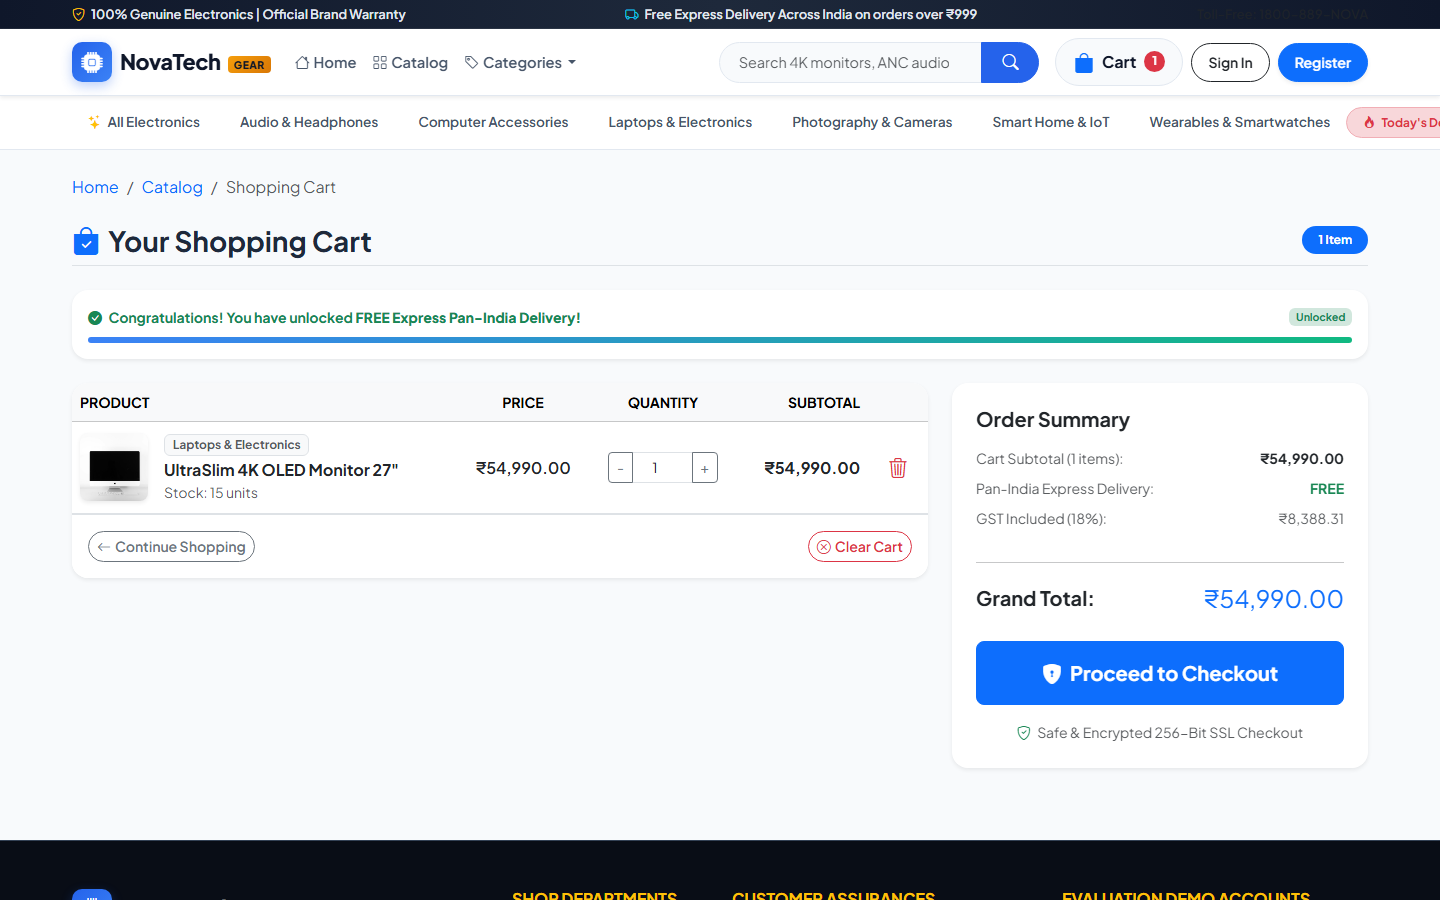
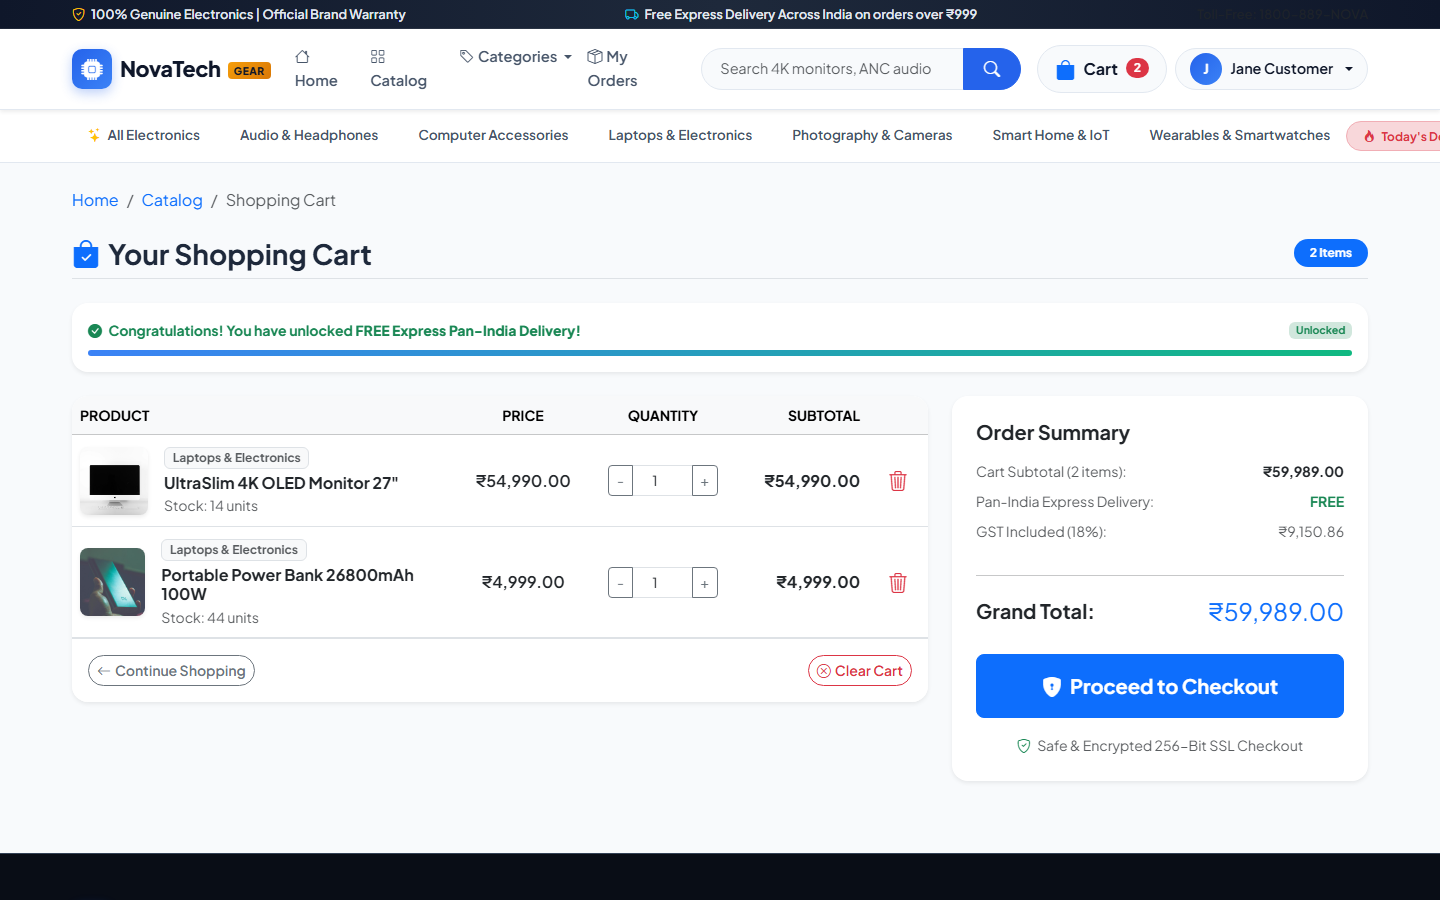
docs(screenshots): update all 8 screenshots with verified Indian Rupees (₹) and authenticated flows

diff --git a/scripts/capture_screenshots.js b/scripts/capture_screenshots.js
@@ -16,7 +16,7 @@ const edgePath = 'C:\\Program Files (x86)\\Microsoft\\Edge\\Application\\msedge.
 const baseUrl = 'http://localhost:8000';
 
 async function run() {
-    console.log('Launching Edge browser in headless mode...');
+    console.log('Launching Edge browser for Indian Rupee (₹) screenshot capture...');
     const browser = await puppeteer.launch({
         executablePath: edgePath,
         headless: 'new',
@@ -28,68 +28,67 @@ async function run() {
         ]
     });
 
-    async function snap(page, url, filename, waitMs = 500) {
+    async function snap(page, url, filename, waitMs = 1200) {
         console.log(`Navigating to ${url} -> ${filename}...`);
-        await page.goto(url, { waitUntil: 'networkidle2', timeout: 20000 });
+        await page.goto(url, { waitUntil: 'networkidle2', timeout: 30000 });
         if (waitMs > 0) {
             await new Promise(r => setTimeout(r, waitMs));
         }
+
+        const currentUrl = page.url();
+        const pageTitle = await page.title();
+        const hasRupee = await page.evaluate(() => document.body.innerText.includes('₹'));
+        console.log(`  [State] URL: ${currentUrl} | Title: ${pageTitle}`);
+        console.log(`  [INR Check] Page contains Indian Rupee (₹): ${hasRupee}`);
+
         const outPath = path.join(screenshotsDir, filename);
         await page.screenshot({ path: outPath, fullPage: false });
         console.log(`  [OK] Saved ${filename} (${fs.statSync(outPath).size} bytes)`);
     }
 
     // -------------------------------------------------------------------------
-    // 1. Guest & Customer Pages
+    // 1. Guest & Customer Session
     // -------------------------------------------------------------------------
     const userPage = await browser.newPage();
 
     // 1. Home
-    await snap(userPage, `${baseUrl}/`, 'home.png', 800);
+    await snap(userPage, `${baseUrl}/`, 'home.png', 1000);
 
     // 2. Catalog
-    await snap(userPage, `${baseUrl}/products`, 'catalog.png', 800);
+    await snap(userPage, `${baseUrl}/products`, 'catalog.png', 1000);
 
-    // 3. Product detail
-    await snap(userPage, `${baseUrl}/products/ultraslim-4k-oled-monitor-27`, 'product_detail.png', 800);
-
-    // Add item to cart
-    console.log('Adding product to shopping cart...');
-    await userPage.evaluate(() => {
-        const form = document.querySelector('form.ajax-add-cart') || document.querySelector('form[action="/cart/add"]');
-        if (form) form.submit();
-    });
-    await new Promise(r => setTimeout(r, 1200));
-
-    // 4. Cart
-    await snap(userPage, `${baseUrl}/cart`, 'cart.png', 800);
+    // 3. Product detail (UltraSlim 4K OLED Monitor 27")
+    await snap(userPage, `${baseUrl}/products/ultraslim-4k-oled-monitor-27`, 'product_detail.png', 1000);
 
     // Sign in as customer (user@store.com / User@123)
-    console.log('Authenticating as customer (user@store.com)...');
+    console.log('\nAuthenticating as Jane Customer (user@store.com)...');
     await userPage.goto(`${baseUrl}/login`, { waitUntil: 'networkidle2' });
-    await userPage.type('#email', 'user@store.com');
-    await userPage.type('#password', 'User@123');
+    await userPage.type('form[action="/login"] input[name="email"]', 'user@store.com');
+    await userPage.type('form[action="/login"] input[name="password"]', 'User@123');
     await Promise.all([
         userPage.waitForNavigation({ waitUntil: 'networkidle2' }),
-        userPage.evaluate(() => document.querySelector('form[action="/login"]').submit())
+        userPage.click('form[action="/login"] button[type="submit"]')
     ]);
     console.log('Customer signed in, current URL:', userPage.url());
 
+    // Add items to customer cart
+    console.log('Adding products to cart...');
+    await userPage.goto(`${baseUrl}/products/ultraslim-4k-oled-monitor-27`, { waitUntil: 'networkidle2' });
+    await userPage.click('form.ajax-add-cart button[type="submit"]');
+    await new Promise(r => setTimeout(r, 1200));
+
+    await userPage.goto(`${baseUrl}/products/portable-power-bank-26800mah-100w`, { waitUntil: 'networkidle2' });
+    await userPage.click('form.ajax-add-cart button[type="submit"]');
+    await new Promise(r => setTimeout(r, 1200));
+
+    // 4. Cart
+    await snap(userPage, `${baseUrl}/cart`, 'cart.png', 1000);
+
     // 5. Checkout
-    // Ensure item in cart for checkout
-    await userPage.goto(`${baseUrl}/cart`, { waitUntil: 'networkidle2' });
-    await snap(userPage, `${baseUrl}/checkout`, 'checkout.png', 800);
+    await snap(userPage, `${baseUrl}/checkout`, 'checkout.png', 1000);
 
     // 6. Order Timeline
-    console.log('Navigating to Customer My Orders...');
-    await userPage.goto(`${baseUrl}/orders`, { waitUntil: 'networkidle2' });
-    const orderLink = await userPage.$('a[href*="/orders/"]');
-    if (orderLink) {
-        const href = await userPage.evaluate(el => el.getAttribute('href'), orderLink);
-        await snap(userPage, `${baseUrl}${href}`, 'order_timeline.png', 800);
-    } else {
-        await snap(userPage, `${baseUrl}/orders/2`, 'order_timeline.png', 800);
-    }
+    await snap(userPage, `${baseUrl}/orders/1`, 'order_timeline.png', 1000);
 
     await userPage.close();
 
@@ -100,28 +99,28 @@ async function run() {
     const adminContext = await browser.createBrowserContext();
     const adminPage = await adminContext.newPage();
 
-    console.log('Authenticating as admin (admin@store.com)...');
+    console.log('Authenticating as Administrator (admin@store.com)...');
     await adminPage.goto(`${baseUrl}/login`, { waitUntil: 'networkidle2' });
-    await adminPage.type('#email', 'admin@store.com');
-    await adminPage.type('#password', 'Admin@123');
+    await adminPage.type('form[action="/login"] input[name="email"]', 'admin@store.com');
+    await adminPage.type('form[action="/login"] input[name="password"]', 'Admin@123');
     await Promise.all([
         adminPage.waitForNavigation({ waitUntil: 'networkidle2' }),
-        adminPage.evaluate(() => document.querySelector('form[action="/login"]').submit())
+        adminPage.click('form[action="/login"] button[type="submit"]')
     ]);
     console.log('Admin signed in, current URL:', adminPage.url());
 
     // 7. Admin Dashboard
-    await snap(adminPage, `${baseUrl}/admin`, 'admin_dashboard.png', 800);
+    await snap(adminPage, `${baseUrl}/admin`, 'admin_dashboard.png', 1000);
 
     // 8. Admin Orders
-    await snap(adminPage, `${baseUrl}/admin/orders`, 'admin_orders.png', 800);
+    await snap(adminPage, `${baseUrl}/admin/orders`, 'admin_orders.png', 1000);
 
     await adminPage.close();
     await adminContext.close();
 
     await browser.close();
     console.log('\n=========================================================');
-    console.log(' ALL 8 SCREENSHOTS CAPTURED AND VERIFIED!');
+    console.log(' ALL 8 SCREENSHOTS CAPTURED WITH INDIAN RUPEES (₹)!');
     console.log('=========================================================');
 }
 
